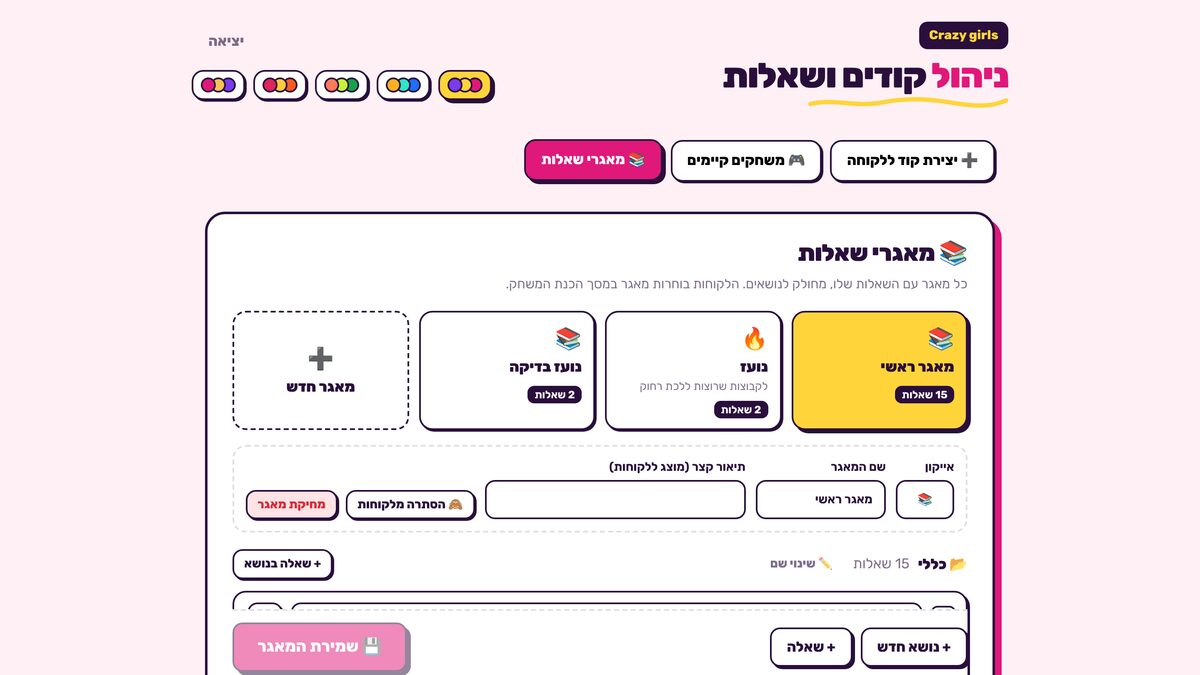
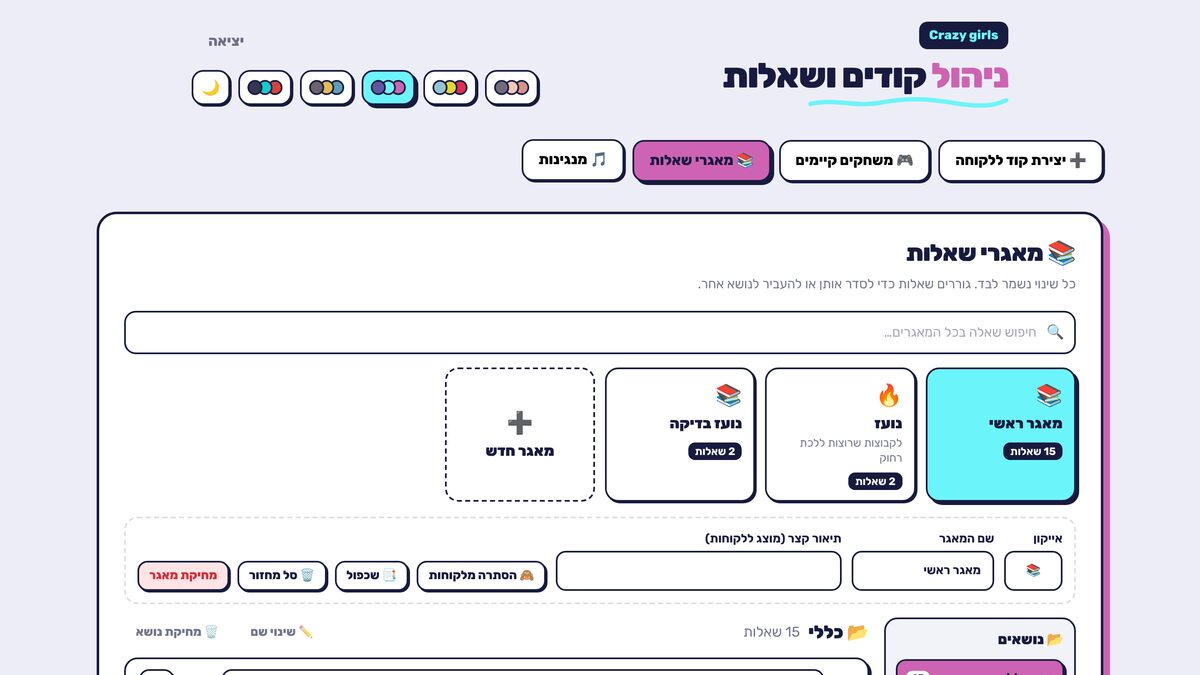
README: full current feature guide, admin tabs, AI quotas, music storage, migrations 001-010, fresh screenshots
Claude-Session: https://claude.ai/code/session_01MnNKbxLrwEG3TbM8vtLWD9

diff --git a/README.md b/README.md
@@ -1,49 +1,132 @@
-# Crazy girls – משחק קליקרים לחבורות
+# Crazy girls – משחק קליקרים לקבוצות
 
-משחק סקר למפגשים. המארחת מריצה את המשחק במחשב או על מקרן. המשתתפות (עד 15) מצביעות מטלפון כשר דרך ימות המשיח.
+משחק סקר למפגשים, מסיבות ואירועים. המארחת מריצה את המשחק במחשב או על מקרן, והמשתתפות מצביעות **מטלפון כשר** דרך ימות המשיח. לא צריך אפליקציה, סמארטפון או אינטרנט בטלפון.
 
 ![מסך הפתיחה](docs/screenshots/05-lobby.jpg)
 
+**האתר:** https://seker-game.seker-game.workers.dev · **ניהול:** `/admin.html` · **הקו להצבעה:** 077-2269931
+
 ---
 
-## מה יש במערכת
+## תוכן
+1. [איך זה עובד](#איך-זה-עובד)
+2. [הכנת משחק (הלקוחה)](#הכנת-משחק-הלקוחה)
+3. [המשחק על המסך](#המשחק-על-המסך)
+4. [הטלפון – איך מצביעים](#הטלפון--איך-מצביעים)
+5. [מסך הניהול](#מסך-הניהול)
+6. [צילומי מסך](#צילומי-מסך)
+7. [הגדרות ההתקנה](#הגדרות-ההתקנה)
+8. [העלאה והרצה](#העלאה-והרצה)
+9. [מבנה הקוד](#מבנה-הקוד)
 
-| כתובת | מה זה |
-|---|---|
-| `/` | כניסת לקוחה עם קוד ← הכנת משחק (משתתפות, שאלות, הגדרות) ← מסך המשחק |
-| `/admin.html` | מסך הניהול, בשלושה טאבים: יצירת קוד ללקוחה · משחקים קיימים · מאגרי שאלות |
-| `/sim.html` | סימולטור טלפון לבדיקות (כבוי כרגע, ראו "מתגים" למטה) |
-| `/yemot` | הכתובת שימות המשיח פונה אליה |
+---
 
-**הכתובת החיה:** https://seker-game.seker-game.workers.dev (ניהול: `/admin.html`)
-
-### מהלך המשחק
-1. **תשלום וקוד:** הלקוחה מעבירה תשלום בהעברה בנקאית. במסך הניהול יוצרים לה קוד, עם תוקף של 24 שעות, שבוע, חודש או ללא הגבלה, ועם מספר משחקים מוגבל.
-2. **הכנה בשלושה שלבים:**
-   - **משתתפות:** שם וטלפון. אפשר להעלות מאקסל.
-   - **שאלות:** בוחרים מאגר, מסמנים שאלות לפי נושאים, ועורכים או מוסיפים.
-   - **הגדרות:** שם המשחק, טיימר, טבלת מובילות, צבעים, מנגינה, משחק אוטומטי, ו"מי את בעצם?".
-3. **הבמה:**
-   - וילון עם שם המשחק והמספר להתקשרות.
-   - שאלה עם טיימר, ואחריה התוצאות.
-   - טבלת מובילות כל כמה שאלות.
-   - בסוף: סיכום עם פודיום והכי מהירה.
-4. **"מי את בעצם?":** בסוף המשחק כל משתתפת מקבלת כרטיס אישי עם משפט שנון שכותב Gemini. המשפט מבוסס על מה שהאחרות בחרו בה.
+## איך זה עובד
+1. **תשלום וקוד:** הלקוחה משלמת בהעברה בנקאית. במסך הניהול יוצרים לה קוד כניסה, עם תוקף, מספר משחקים ומספר משתתפות מקסימלי.
+2. **הכנה:** הלקוחה נכנסת עם הקוד ומכינה משחק בשלושה שלבים: משתתפות, שאלות, הגדרות.
+3. **משחק:** כולן מתקשרות לקו, השאלות עולות על המסך, וכל אחת מקישה בטלפון את מספר התשובה.
+4. **סיום:** מסך ניצחון, סיכום PDF, וכרטיס אישי שה-AI כותב לכל משתתפת: "אז מה למדתי עלייך?".
 
 **ניקוד:** 100 נקודות למי שהצביעה כמו הרוב, ועד 50 נקודות בונוס על מהירות.
 
-**שליטה במשחק:**
-- **פס הכפתורים:** מזיזים את העכבר לתחתית המסך, והפס מופיע.
-- **מקש רווח:** מקדם את המשחק לשלב הבא.
-- **⏸ עצירה:** מקפיאה את הטיימר באמצע שאלה. **▶ המשך** ממשיך מאותה שנייה.
-- **⚙ הגדרות:** פותח חלונית צד, שבה אפשר לשנות טיימר, צבעים ומנגינה באמצע המשחק.
+---
 
-### איך המשתתפות מצביעות
-1. מתקשרות ל-**077-2269931** ונשארות על הקו כל המשחק.
-2. המערכת מזהה כל משתתפת לפי מספר הטלפון שנרשם בהכנה. מספר לא רשום או חסוי נדחה.
-3. בכל שאלה מקישים את מספר התשובה ואחריו `#`.
-4. אפשר לשנות תשובה עד שהתוצאות מוצגות.
-5. המערכת שקטה (בלי הקראה), כדי לא להפריע בחדר.
+## הכנת משחק (הלקוחה)
+
+### שלב 1 – משתתפות
+- **שם וטלפון לכל משתתפת.** הטלפון מזהה אותה כשהיא מתקשרת. מספר שלא נרשם, או מספר חסוי, לא יכול להצטרף.
+- **ייבוא מאקסל.** אם כבר הוקלדו שמות, הלקוחה בוחרת: להחליף את הרשימה או להוסיף לסופה.
+- **מגבלת משתתפות:** לפי הקוד. ברירת המחדל 15, ואפשר להגדיר עד 50.
+- **מספור קבוע:** כל משתתפת מקבלת מספר לפי הסדר, והוא נשאר שלה לכל המשחק.
+
+### שלב 2 – שאלות
+- **בחירת גרסה:** מאגר שאלות שהמנהלת הכינה. השאלות מסודרות לפי נושאים, ומסמנים ✓ על מה שרוצים.
+- **"⏱ כמה זמן משחקים?":** כל השאלות, או 30 דקות, שעה או שעה וחצי. כשבוחרים זמן, המערכת מסמנת באקראי כמה שאלות שנכנסות בו, ואפשר לשנות את המספר. תמיד מוצג משך משוער.
+- **טיימר לכל שאלה:** ברירת המחדל 10 שניות. לכל שאלה יש רשימת ⏱ משלה (5–90 שניות, או בלי טיימר). שאלה שמגיעה מהמאגר עם זמן משלה, מגיעה איתו.
+- **⚙ ליד כל שאלה:** זמן הצגת התוצאות של אותה שאלה. **"⏱ זמנים לנושא"** קובע זמן אחד לכל השאלות בנושא.
+- **עריכה חופשית:**
+  - לשנות נוסח.
+  - שאלה עם שמות המשתתפות, או עם תשובות קבועות.
+  - תשובה נוספת, למשל "אף אחת".
+  - 😊 אימוג'ים בשאלה.
+- **📋 הוספת רשימה:**
+  - מדביקים רשימת שאלות מוורד, או מעלים את קובץ הוורד (docx) או קובץ טקסט.
+  - שורה = שאלה, ומספור ותבליטים יורדים לבד.
+  - שאלה עם תשובות קבועות: `שאלה | תשובה | תשובה`.
+  - קובץ לדוגמה: [`docs/samples/שאלות-לדוגמה.docx`](docs/samples/).
+- **גרירה (⋮⋮):** לשינוי הסדר. המשחק שומר על הסדר שנקבע.
+- **🗑 סל מחזור:** שאלה שמורידים אפשר לשחזר.
+- **💾 שמירה כ"השאלות שלי":** הרשימה נשמרת לפעם הבאה.
+
+### שלב 3 – הגדרות
+- שם המשחק, טבלת מובילות (כל 5/8/10 שאלות או בלי), מותר להצביע לעצמך, להראות מי הצביעה.
+- **משחק אוטומטי:** תוצאות כשהזמן נגמר, ומעבר לבד לשאלה הבאה.
+- **"אז מה למדתי עלייך?"** בסוף המשחק, כרטיס אישי שה-AI כותב לכל משתתפת.
+- **🎵 מנגינה:** אחת המנגינות שהמנהלת העלתה, או אחת המובנות.
+- **🎨 צבעים:** 5 פלטות, ו-🌙 **תצוגה כהה / ☀ בהירה**.
+
+---
+
+## המשחק על המסך
+- **פתיחה:**
+  - וילון עם שם המשחק, ושמות המשתתפות שנדלקים כשהן מתחברות.
+  - כפתור **START ▶**. אפשר להתחיל גם אם לא כולן התחברו.
+  - **"התחברות"** והמספר להתקשרות. הכיתוב נעלם כשכולן מחוברות, וחוזר אם מישהי מתנתקת.
+- **שאלה:**
+  - טיימר עם תקתוק, צפצוף בשניות האחרונות ובאזר.
+  - שמות מי שכבר הצביעה (בלי לגלות מה בחרה), וכיתובים מצחיקים.
+  - כשהזמן נגמר עוברים לתוצאות.
+- **תוצאות:** גרף, המנצחת בכתר, תיקו, "ללא קולות". תשובות ארוכות נשברות לשורה נוספת.
+- **בצד המסך:** חיווי "שאלה 4 מתוך 15" עם פס התקדמות, וכפתור **⏸ / ▶**. העצירה מקפיאה את הטיימר באמצע שאלה, או את המעבר בתוצאות.
+- **הכל נכנס במסך אחד:** אין גלילה. התוכן מתכוונן לגודל המסך ונשאר יציב בכל שלב.
+- **פס כפתורים:** מופיע כשמזיזים את העכבר לתחתית המסך.
+  - כפתורים: הצגת תוצאות, הבאה, הקודמת, פתיחה מחדש, איפוס, סיום, ⚙ הגדרות, מנגינה, צלילים, מסך מלא.
+  - אישורים (כמו "לסיים את המשחק?") מופיעים בתוך הפס, בלי חלונות קופצים.
+  - מקש רווח מקדם את המשחק.
+- **⚙ הגדרות באמצע המשחק:**
+  - **👥 משתתפות:** שינוי שם, והוספת משתתפת חדשה עד המגבלה. המשתתפת החדשה מצטרפת מהשאלה הבאה, ומספרי התשובות בשאלה שכבר רצה לא זזים.
+  - **המשחק:** משחק אוטומטי, זמן תוצאות, טבלת מובילות ועוד.
+  - **שמע וצבעים.**
+- **סיום:**
+  - **מסך ניצחון חגיגי:** גביע ענק, "והמנצחת היא…", קונפטי על כל המסך, המקומות הבאים והכי מהירה.
+  - **📄 סיכום המשחק (PDF):** דירוג, מי ניצחה בכל שאלה וכמה קולות קיבלה כל תשובה, והכרטיסים של ה-AI. נפתח בחלון ההדפסה, ובוחרים "שמירה כ-PDF".
+  - **אחרי 10 שניות** עוברים לבד ל**"אז מה למדתי עלייך?"**: כרטיס לכל משתתפת עם התארים שקיבלה ומשפט שנון. הכרטיסים מתחלפים לבד.
+
+### ה-AI ("אז מה למדתי עלייך?")
+- **Google Gemini** כותב את המשפטים לפי מה שהאחרות בחרו בכל משתתפת, אף פעם לא לפי מה שהיא עצמה הצביעה.
+- **כתיבה מראש:** ה-AI כותב ברקע כשמוצגות התוצאות של השאלה האחרונה, וכותב שוב בסוף רק אם משהו השתנה. כך בלחיצה הכרטיסים בדרך כלל כבר מוכנים.
+  - **תקרת המתנה:** מחכים לכל היותר 3.5 שניות. אם ה-AI לא הספיק, מוצגת הגרסה האחרונה או משפטי גיבוי, והגרסה המעודכנת מתחלפת בשקט כשהיא מוכנה.
+- **בקשה מהירה:** בקשה אחת לכל המשתתפות, בלי "חשיבה" לפני התשובה.
+- **מכסות (חשוב):**
+  - **במסלול החינמי** של Gemini מותרות **20 בקשות ביום לכל דגם**. המערכת עוברת לבד בין עד 6 דגמים, ודגם שהמכסה היומית שלו נגמרה לא ינוסה שוב באותו יום. משחק אחד משתמש בדרך כלל בבקשה אחת או שתיים.
+  - **מסלול בתשלום:** אפשר לחבר אמצעי תשלום ב-[AI Studio](https://aistudio.google.com) ("Set up billing"). אז אין מגבלה של 20 ביום, והעלות בערך אגורה עד שתיים למשחק. במסלול החינמי גוגל רשאית להשתמש בטקסט שנשלח לשיפור השירותים שלה.
+- **אם ה-AI לא זמין:** המשחק לא נתקע, ומופיעים משפטי גיבוי.
+
+---
+
+## הטלפון – איך מצביעים
+1. מתקשרות ל-**077-2269931** ונשארות על הקו כל המשחק. המערכת מזהה כל משתתפת לפי מספר הטלפון.
+2. בכל שאלה מקישים את מספר התשובה ואחריו `#`. שומעים "נקלט" ואת המספר.
+3. אפשר לשנות תשובה עד שהתוצאות מוצגות.
+4. **בזמן ההמתנה**, כל 30 שניות בלי הקשה, הקו אומר משפט קצר לפי שלב המשחק: "המשחק יתחיל בקרוב" / "הקישי מספר ואחריו סולמית" / "המתיני לשאלה הבאה".
+   - **שקט מוחלט:** אם רוצים שקט, מעלים לשלוחה בימות המשיח את הקובץ [`docs/yemot/000.wav`](docs/yemot/) בשם `000`, ומגדירים ב-Cloudflare משתנה `YEMOT_SILENT_FILE=000`. בלי המשתנה, הקו לא מחפש את הקובץ.
+5. **ניתוק:** כשמשתתפת מנתקת, כיתוב "התחברות" חוזר למסך. אם הגדירו `api_hangup_send=yes`, מיד. בלי ההגדרה, אחרי כדקה.
+
+---
+
+## מסך הניהול
+`/admin.html`, עם סיסמת הניהול. ארבעה טאבים:
+
+| טאב | מה יש בו |
+|---|---|
+| ➕ **יצירת קוד ללקוחה** | שם / הערה, קוד (או אקראי), תוקף (24 שעות / שבוע / חודש / ללא הגבלה), כמה משחקים, כמה משתתפות בכל משחק. אחרי היצירה – הודעה מוכנה להעתקה ללקוחה |
+| 🎮 **משחקים קיימים** | כל הקודים: הוספת ימים, משחקים, משתתפות, השבתה. **סימון מרובה** (השבתה / הפעלה / מחיקה של כמה יחד). **🗑 סל מחזור** – קוד שנמחק מפסיק לעבוד מיד, ואפשר לשחזר אותו 30 יום |
+| 📚 **מאגרי שאלות** | מאגרים ← נושאים (בצד) ← שאלות. **נשמר אוטומטית.** הוספת רשימה מוורד / טקסט, גרירה לסידור ולהעברה בין נושאים, טיימר לכל שאלה, חיפוש בכל המאגרים, אזהרה על שאלה כפולה, שכפול מאגר, הסתרה מלקוחות, ו-**🗑 סל מחזור** לשאלות שנמחקו (30 יום) |
+| 🎵 **מנגינות** | העלאת קבצי שמע (mp3, עד 20MB), שינוי שם, האזנה, מחיקה. המנגינה הראשונה היא ברירת המחדל במשחקים |
+
+**מנגינות – שני דברים לדעת:**
+- **זכויות:** מעלים רק מוזיקה שמותר להשתמש בה במשחק מסחרי (בלי זכויות יוצרים, או ברישיון).
+- **סינון אינטרנט:** אם סינון חוסם קבצי שמע במחשב מסוים, המשחק עובר לבד למנגינה מובנית. המנגינות המובנות נוצרות בדפדפן ולא צריכות קבצים.
 
 ---
 
@@ -52,40 +135,45 @@
 | כניסה | משתתפות | שאלות |
 |---|---|---|
 | ![](docs/screenshots/01-login.jpg) | ![](docs/screenshots/02-players.jpg) | ![](docs/screenshots/03-questions.jpg) |
-| **שאלה** | **תוצאות** | **פס שליטה** |
-| ![](docs/screenshots/06-question.jpg) | ![](docs/screenshots/07-results.jpg) | ![](docs/screenshots/08-controls.jpg) |
-| **סיכום** | **מי את בעצם?** | **ניהול – יצירת קוד** |
-| ![](docs/screenshots/09-summary.jpg) | ![](docs/screenshots/11-profile.jpg) | ![](docs/screenshots/12-admin-create.jpg) |
-| **ניהול – משחקים קיימים** | **ניהול – מאגרי שאלות** | |
-| ![](docs/screenshots/13-admin-codes.jpg) | ![](docs/screenshots/14-admin-banks.jpg) | |
+| **הגדרות** | **פתיחה** | **שאלה** |
+| ![](docs/screenshots/04-settings.jpg) | ![](docs/screenshots/05-lobby.jpg) | ![](docs/screenshots/06-question.jpg) |
+| **תוצאות** | **עצירה** | **פס שליטה** |
+| ![](docs/screenshots/07-results.jpg) | ![](docs/screenshots/08-paused.jpg) | ![](docs/screenshots/09-controls.jpg) |
+| **ניצחון** | **אז מה למדתי עלייך?** | **ניהול – יצירת קוד** |
+| ![](docs/screenshots/10-victory.jpg) | ![](docs/screenshots/11-profile.jpg) | ![](docs/screenshots/12-admin-create.jpg) |
+| **ניהול – משחקים קיימים** | **ניהול – מאגרים** | **ניהול – מנגינות** |
+| ![](docs/screenshots/13-admin-codes.jpg) | ![](docs/screenshots/14-admin-banks.jpg) | ![](docs/screenshots/15-admin-music.jpg) |
 
 ---
 
 ## הגדרות ההתקנה
 
 ### Cloudflare
-- **Worker:** `seker-game` (קובץ ההגדרות: `wrangler.jsonc`).
-- **מסד נתונים D1:** `seker-game-db`, מחובר בשם `DB`.
-- **קבצי האתר:** נארזים לתוך קוד השרת על ידי `scripts/build-assets.mjs`. לא משתמשים ב-Workers Assets.
+| רכיב | שם | שימוש |
+|---|---|---|
+| Worker | `seker-game` | השרת והאתר. ההגדרות ב-`wrangler.jsonc` |
+| מסד נתונים D1 | `seker-game-db` (מחובר בשם `DB`) | קודים, משחקים, משתתפות, הצבעות, מאגרים |
+| אחסון KV | `MUSIC` | קבצי המנגינות שהועלו (גדולים מדי לקוד עצמו) |
+
+קבצי האתר (React) נארזים לתוך קוד השרת על ידי `scripts/build-assets.mjs`.
 
 ### משתנים וסודות
-מגדירים אותם ב-Cloudflare: Workers ← seker-game ← Settings ← Variables and Secrets.
+ב-Cloudflare: Workers & Pages ← seker-game ← Settings ← Variables and Secrets.
 
 | שם | סוג | חובה? | מה זה |
 |---|---|---|---|
 | `ADMIN_PASSWORD` | סוד | כן | סיסמת מסך הניהול (לפחות 6 תווים) |
-| `GEMINI_API_KEY` | סוד | ל"מי את בעצם?" | מפתח Google Gemini. בלעדיו מופיעים משפטי גיבוי פשוטים |
-| `PHONE_INFO` | משתנה | כן | המספר שמוצג על המסך. מוגדר ב-`wrangler.jsonc` |
-| `YEMOT_KEY` | סוד | לא | אבטחה: אם הוגדר, ימות המשיח חייבת לשלוח `?key=` עם אותו ערך |
-| `GEMINI_MODEL` | משתנה | לא | דגם Gemini. ברירת המחדל: `gemini-3.8-flash` |
-| `GEMINI_FALLBACK_MODELS` | משתנה | לא | דגמי גיבוי כשהדגם הראשי עמוס, מופרדים בפסיקים |
-| `GEMINI_TTS_MODEL` | משתנה | לא | דגם הקריין (הקריין כבוי כרגע) |
-| `AI_DEFAULT_LIMIT` | משתנה | לא | מכסה חודשית לייבוא שאלות מתמונה לכל קוד (ברירת מחדל 20; הפיצ'ר כבוי) |
+| `GEMINI_API_KEY` | סוד | ל-AI | מפתח Google Gemini. בלעדיו – משפטי גיבוי |
+| `PHONE_INFO` | משתנה | כן | המספר שמוצג על המסך (מוגדר ב-`wrangler.jsonc`) |
+| `YEMOT_KEY` | סוד | לא | אבטחה: ימות המשיח חייבת לשלוח `?key=` עם אותו ערך |
+| `YEMOT_SILENT_FILE` | משתנה | לא | שם קובץ שקט בשלוחה (למשל `000`) – שקט מוחלט בזמן ההמתנה בקו |
+| `GEMINI_MODEL` | משתנה | לא | דגם Gemini ראשי (ברירת מחדל `gemini-3.8-flash`) |
+| `GEMINI_FALLBACK_MODELS` | משתנה | לא | דגמי גיבוי, מופרדים בפסיקים (אחרת – נבחרים לבד) |
+| `GEMINI_TTS_MODEL`, `AI_DEFAULT_LIMIT` | משתנה | לא | לקריין ולייבוא מתמונה (שניהם כבויים כרגע) |
 
 ### מבנה מסד הנתונים
-- **הטבלאות:** `codes`, `banks`, `bank`, `sessions`, `games`, `players`, `calls`, `votes`, `rounds`.
-- **התקנה חדשה:** מריצים את `schema.sql`, שכולל הכל.
-- **שינויים במסד שכבר קיים:** נמצאים ב-`migrations/`, וכולם כבר הורצו על האתר החי:
+- **התקנה חדשה:** `schema.sql`, שכולל הכל.
+- **עדכונים:** כל שינוי נמצא ב-`migrations/`, וכולם כבר הורצו על האתר החי:
 
 | קובץ | מה הוסיף |
 |---|---|
@@ -93,69 +181,68 @@
 | `002_banks.sql` | מאגרי שאלות מרובים |
 | `003_topics.sql` | נושאים לשאלות |
 | `004_no_builtin_banks.sql` | ביטול המאגרים המובנים |
-| `005_profiles.sql` | שמירת משפטי "מי את בעצם?" |
+| `005_profiles.sql` | שמירת הכרטיסים של "אז מה למדתי עלייך?" |
 | `006_pause.sql` | עצירה אמיתית של הטיימר |
+| `007_players_pause.sql` | מגבלת משתתפות לכל קוד, ומספרי תשובות קבועים כשמוסיפים משתתפת באמצע |
+| `008_question_times.sql` | טיימר וזמן תוצאות לכל שאלה במאגר |
+| `009_bank_trash.sql` | סל מחזור לשאלות שנמחקו ממאגר |
+| `010_codes_trash.sql` | סל מחזור לקודים |
 
-כשמוסיפים שינוי חדש למסד, מריצים אותו על האתר החי:
+הרצת עדכון חדש על האתר החי:
 ```bash
-npx wrangler d1 execute seker-game-db --remote --file migrations/00X.sql -y
+npx wrangler d1 execute seker-game-db --remote --file migrations/0XX_name.sql -y
 ```
 
 ### ימות המשיח
-בשלוחה ייעודית, בקובץ `ext.ini`:
+בשלוחה של המשחק, בקובץ `ext.ini`:
 ```
 type=api
 api_link=https://seker-game.seker-game.workers.dev/yemot
 api_hangup_send=yes
 ```
-- `api_hangup_send=yes` – ימות המשיח מודיעה לשרת כשמשתתפת ניתקה, וכיתוב "התחברות" חוזר למסך מיד. בלי השורה הזו המערכת מזהה ניתוק אחרי כדקה.
 - **אבטחה:** אם הוגדר `YEMOT_KEY`, מוסיפים לקישור `?key=הסוד`.
-- **לפני משחק אמיתי:** לבדוק עם 2–3 טלפונים, ולוודא שהחבילה מאפשרת 15 שיחות במקביל.
+- **כמה שיחות במקביל:** לוודא מול ימות המשיח שהחבילה מאפשרת מספיק שיחות במקביל. כל משתתפת היא שיחה פתוחה.
+- **השרת עצמו:** נבדק עם 10 משחקים × 20 משתתפות במקביל, 200 טלפונים, בלי שגיאות.
 
 ### מתגים (פיצ'רים כבויים)
-הקובץ `web/src/lib/features.js` מכיל פיצ'רים שהקוד שלהם קיים, אבל הם מוסתרים. כדי להחזיר פיצ'ר: משנים ל-`true`, בונים ומעלים.
+`web/src/lib/features.js` – הקוד קיים, אבל מוסתר. כדי להחזיר: `true`, בנייה והעלאה.
 
 | מתג | מה הוא מפעיל |
 |---|---|
-| `imageImport` | ייבוא שאלות מתמונה או מטקסט (Gemini) |
-| `narrator` | קריין שמקריא שאלות ומנצחות (Gemini TTS) |
-| `simulator` | כפתור 📱 סימולטור טלפון במסך המשחק |
-| `aiCheck` | כרטיס "חיבור ל-AI" במסך הניהול (בדיקת המפתח והדגמים) |
+| `imageImport` | ייבוא שאלות מתמונה (Gemini) |
+| `narrator` | קריין שמקריא שאלות ומנצחות |
+| `simulator` | כפתור 📱 סימולטור טלפון לבדיקות |
+| `aiCheck` | כרטיס "חיבור ל-AI" במסך הניהול |
 
 ---
 
-## העלאה לאינטרנט
+## העלאה והרצה
 
-### התקנה ראשונה
+### עדכון האתר אחרי שינוי בקוד
+```bash
+npm run deploy      # בונה את React, אורז לתוך השרת ומעלה
+```
+אחרי עדכון, בדפדפן: **Ctrl+F5**.
+
+### התקנה ראשונה (חשבון Cloudflare חדש)
 ```bash
 npm install
 npx wrangler login
-npx wrangler d1 create seker-game-db        # להעתיק את ה-database_id לקובץ wrangler.jsonc
+npx wrangler d1 create seker-game-db            # להעתיק את ה-database_id ל-wrangler.jsonc
+npx wrangler kv namespace create MUSIC          # להעתיק את ה-id ל-wrangler.jsonc
 npx wrangler d1 execute seker-game-db --remote --file schema.sql
 npx wrangler secret put ADMIN_PASSWORD
 npx wrangler secret put GEMINI_API_KEY
 npm run deploy
 ```
 
-### עדכון אחרי שינוי בקוד
-```bash
-npm run deploy      # בונה את React, אורז לתוך השרת ומעלה
-```
-אחרי עדכון, בדפדפן לוחצים **Ctrl+F5** כדי לראות את הגרסה החדשה.
-
-## הרצה מקומית לבדיקה
+### הרצה מקומית לבדיקה
 ```bash
 npm install
-npm run db:local    # יוצר מסד נתונים מקומי מ-schema.sql
+npm run db:local    # מסד נתונים מקומי מ-schema.sql
 npm run dev         # http://127.0.0.1:8787
 ```
-את הסודות המקומיים כותבים בקובץ `.dev.vars`. הקובץ לא נשמר בגיט. דוגמה:
-```
-ADMIN_PASSWORD=admin123
-PHONE_INFO=077-2269931
-GEMINI_API_KEY=...
-```
-לעבודה על העיצוב עם רענון מיידי מריצים שני חלונות: `npm run dev` (שרת) ו-`npm run dev:web` (React על פורט 5173).
+סודות מקומיים בקובץ `.dev.vars` (לא נשמר בגיט), למשל `ADMIN_PASSWORD=...`, `PHONE_INFO=077-2269931`, `GEMINI_API_KEY=...`.
 
 ---
 
@@ -163,15 +250,14 @@ GEMINI_API_KEY=...
 
 | קובץ / תיקייה | מה יש בו |
 |---|---|
-| `src/index.js` | השרת: ניתוב, API, מצב המשחק, ניקוד, החיבור לימות המשיח |
-| `src/profiles.js` | "מי את בעצם?": איסוף הנתונים והפנייה ל-Gemini. ההנחיה לסגנון המשפטים נמצאת ב-`SYSTEM` |
-| `src/ai.js` | החיבור ל-Gemini: בחירת דגם, ניסיונות חוזרים ודגמי גיבוי |
-| `src/tts.js` | קריין (כבוי) |
-| `src/defaults.js` | 2 שאלות לדוגמה שנכנסות לכל מאגר חדש |
-| `schema.sql`, `migrations/` | מבנה מסד הנתונים |
-| `web/src/pages/` | כניסה והכנת משחק |
-| `web/src/game/` | מסך הבמה: וילון, טיימר, שאלה, תוצאות, טבלה, סיכום, "מי את בעצם?", פס שליטה, הגדרות צד |
-| `web/src/admin/` | מסך הניהול: טאבים, קודים, מאגרים |
-| `web/src/lib/` | עזרים: צבעים, מוזיקה וצלילים, מתגי פיצ'רים |
-| `web/src/sim/` | סימולטור הטלפון |
-| `scripts/build-assets.mjs` | אורז את קבצי React שנבנו לתוך השרת |
+| `src/index.js` | השרת: ניתוב, API, מצב המשחק, ניקוד, ימות המשיח, מסך הניהול |
+| `src/profiles.js` | "אז מה למדתי עלייך?": איסוף העובדות והפנייה ל-Gemini. **הסגנון של המשפטים – בהנחיה `SYSTEM`** |
+| `src/ai.js` | החיבור ל-Gemini: בחירת דגם, דגמי גיבוי, מכסות |
+| `src/music.js` | מנגינות: העלאה, רשימה והגשת הקבצים (KV) |
+| `src/defaults.js` | 2 שאלות לדוגמה למאגר חדש |
+| `web/src/pages/` | כניסה והכנת משחק (משתתפות, שאלות, הגדרות) |
+| `web/src/game/` | מסך הבמה: וילון, שאלה, תוצאות, טבלה, ניצחון, כרטיסי AI, פס שליטה, הגדרות צד, `FitBox` (התאמה למסך) |
+| `web/src/admin/` | מסך הניהול: קודים, מאגרים, מנגינות |
+| `web/src/lib/` | צבעים ותצוגה כהה, מנגינות וצלילים, ייבוא רשימות מוורד, סיכום PDF, משך משחק, אימוג'ים |
+| `scripts/build-assets.mjs` | אורז את קבצי React לתוך השרת |
+| `docs/` | צילומי מסך, קובץ שאלות לדוגמה, קובץ שקט לימות המשיח, וחומרי שיווק (`docs/marketing`) |
